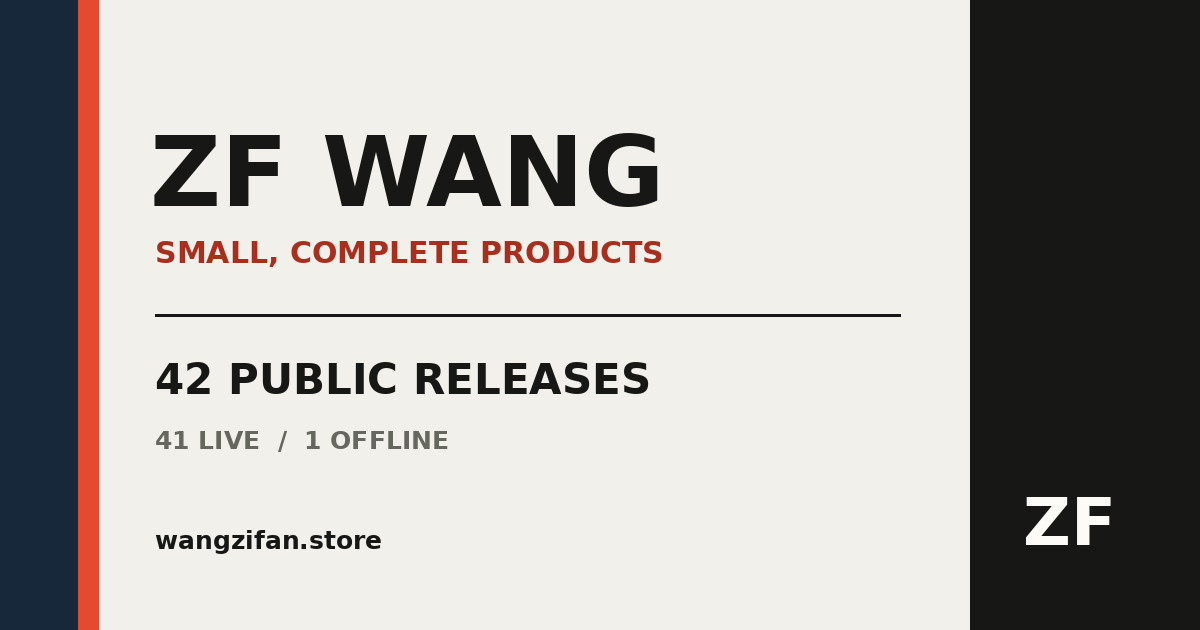
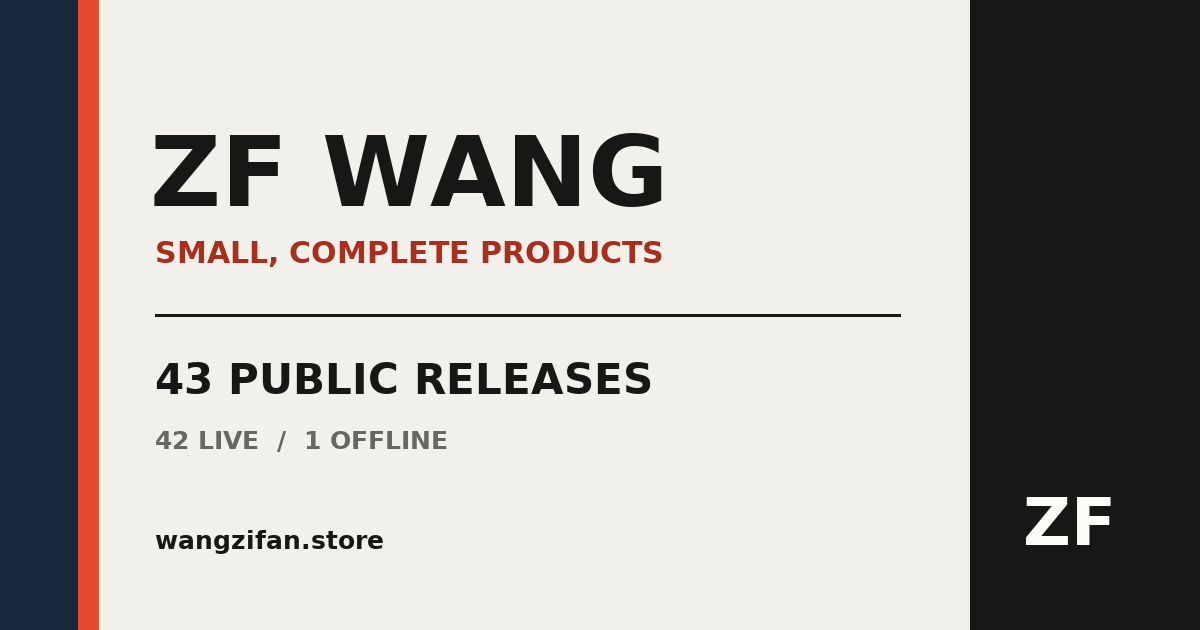
Add Command An Army Field Guide to the project wall (#27)

diff --git a/index.html b/index.html
@@ -25,7 +25,7 @@
   <link rel="icon" href="favicon.svg" type="image/svg+xml">
   <link rel="stylesheet" href="assets/site.css">
   <script defer data-domain="wangzifan.store" src="https://plausible.shipsolo.io/js/script.js"></script>
-  <script type="application/ld+json">{"@context":"https://schema.org","@graph":[{"@type":"Person","@id":"https://wangzifan.store/#person","name":"王子凡","alternateName":"ZF Wang","url":"https://wangzifan.store/","description":"OPC 一人公司创业者，以 AI、产品与持续发布探索独立创业。"},{"@type":"WebSite","@id":"https://wangzifan.store/#website","url":"https://wangzifan.store/","name":"王子凡（ZF Wang）— 个人产品工作台","inLanguage":"zh-CN","publisher":{"@id":"https://wangzifan.store/#person"}},{"@type":"ItemList","@id":"https://wangzifan.store/#release-ledger","name":"ZF Wang 公开产品发布档案","numberOfItems":42,"itemListOrder":"https://schema.org/ItemListOrderDescending","itemListElement":[{"@type":"ListItem","position":1,"item":{"@type":"CreativeWork","name":"1666 Amsterdam Field Desk","datePublished":"2026-09-12","genre":"游戏与内容","additionalProperty":{"@type":"PropertyValue","name":"public status","value":"live"},"url":"https://1666amsterdam.top/"}},{"@type":"ListItem","position":2,"item":{"@type":"CreativeWork","name":"ParryGrid","datePublished":"2026-09-12","genre":"游戏与内容","additionalProperty":{"@type":"PropertyValue","name":"public status","value":"live"},"url":"https://parrygrid.wiki/"}},{"@type":"ListItem","position":3,"item":{"@type":"CreativeWork","name":"Mimic Party Soundcheck","datePublished":"2026-09-12","genre":"游戏与内容","additionalProperty":{"@type":"PropertyValue","name":"public status","value":"live"},"url":"https://mimicparty.space/"}},{"@type":"ListItem","position":4,"item":{"@type":"CreativeWork","name":"Nightfall Halloween Guides","datePublished":"2026-09-12","genre":"游戏与内容","additionalProperty":{"@type":"PropertyValue","name":"public status","value":"live"},"url":"https://halloweenthegame.top/"}},{"@type":"ListItem","position":5,"item":{"@type":"CreativeWork","name":"Narinig Mo Ba? Guide","datePublished":"2026-09-11","genre":"游戏与内容","additionalProperty":{"@type":"PropertyValue","name":"public status","value":"live"},"url":"https://narinigmoba.top/"}},{"@type":"ListItem","position":6,"item":{"@type":"CreativeWork","name":"Astra Atlas","datePublished":"2026-09-09","genre":"AI 产品","additionalProperty":{"@type":"PropertyValue","name":"public status","value":"live"},"url":"https://gpt6astra.best/"}},{"@type":"ListItem","position":7,"item":{"@type":"CreativeWork","name":"Onimusha Atlas","datePublished":"2026-09-09","genre":"游戏与内容","additionalProperty":{"@type":"PropertyValue","name":"public status","value":"live"},"url":"https://onimushawayofthesword.space/"}},{"@type":"ListItem","position":8,"item":{"@type":"CreativeWork","name":"Dawnwalker Field Guide","datePublished":"2026-09-09","genre":"游戏与内容","additionalProperty":{"@type":"PropertyValue","name":"public status","value":"live"},"url":"https://thebloodofdawnwalker.info/"}},{"@type":"ListItem","position":9,"item":{"@type":"CreativeWork","name":"GenVid Atlas","datePublished":"2026-09-06","genre":"AI 产品","additionalProperty":{"@type":"PropertyValue","name":"public status","value":"live"},"url":"https://genvidatlas.wiki/"}},{"@type":"ListItem","position":10,"item":{"@type":"CreativeWork","name":"Mortal Shell II Wiki","datePublished":"2026-08-25","genre":"游戏与内容","additionalProperty":{"@type":"PropertyValue","name":"public status","value":"live"},"url":"https://mortalshell2.quest/"}},{"@type":"ListItem","position":11,"item":{"@type":"CreativeWork","name":"OxAlpha","datePublished":"2026-08-22","genre":"实用工具","additionalProperty":{"@type":"PropertyValue","name":"public status","value":"live"},"url":"https://oxalpha.site/"}},{"@type":"ListItem","position":12,"item":{"@type":"CreativeWork","name":"The Sinking City 2 Field Guide","datePublished":"2026-08-20","genre":"游戏与内容","additionalProperty":{"@type":"PropertyValue","name":"public status","value":"live"},"url":"https://thesinkingcity2.top/"}},{"@type":"ListItem","position":13,"item":{"@type":"CreativeWork","name":"Chinamaxxing Online","datePublished":"2026-08-20","genre":"创意实验","additionalProperty":{"@type":"PropertyValue","name":"public status","value":"live"},"url":"https://chinamaxxing.site/"}},{"@type":"ListItem","position":14,"item":{"@type":"CreativeWork","name":"HLLV Field Manual","datePublished":"2026-08-18","genre":"游戏与内容","additionalProperty":{"@type":"PropertyValue","name":"public status","value":"live"},"url":"https://hellletloosevietnam.blog/"}},{"@type":"ListItem","position":15,"item":{"@type":"CreativeWork","name":"牛来","datePublished":"2026-08-17","genre":"创意实验","additionalProperty":{"@type":"PropertyValue","name":"public status","value":"live"},"url":"https://niulai.blog/"}},{"@type":"ListItem","position":16,"item":{"@type":"CreativeWork","name":"CraveLoop","datePublished":"2026-08-16","genre":"创意实验","additionalProperty":{"@type":"PropertyValue","name":"public status","value":"live"},"url":"https://foodnevercomes.online/"}},{"@type":"ListItem","position":17,"item":{"@type":"CreativeWork","name":"MatchaFilter","datePublished":"2026-08-16","genre":"实用工具","additionalProperty":{"@type":"PropertyValue","name":"public status","value":"live"},"url":"https://matchafilter.cc/"}},{"@type":"ListItem","position":18,"item":{"@type":"CreativeWork","name":"burnt for you","datePublished":"2026-08-16","genre":"创意实验","additionalProperty":{"@type":"PropertyValue","name":"public status","value":"live"},"url":"https://burncd.xyz/"}},{"@type":"ListItem","position":19,"item":{"@type":"CreativeWork","name":"Polski Piłkarz Simulator","datePublished":"2026-08-16","genre":"游戏与内容","additionalProperty":{"@type":"PropertyValue","name":"public status","value":"offline"}}},{"@type":"ListItem","position":20,"item":{"@type":"CreativeWork","name":"DSH Field Guide","datePublished":"2026-08-15","genre":"实用工具","additionalProperty":{"@type":"PropertyValue","name":"public status","value":"live"},"url":"https://deepseekharness.site/"}},{"@type":"ListItem","position":21,"item":{"@type":"CreativeWork","name":"Remove Matcha Filter","datePublished":"2026-08-12","genre":"实用工具","additionalProperty":{"@type":"PropertyValue","name":"public status","value":"live"},"url":"https://remove-matcha-filter.com/"}},{"@type":"ListItem","position":22,"item":{"@type":"CreativeWork","name":"RSP Editor","datePublished":"2026-08-09","genre":"AI 产品","additionalProperty":{"@type":"PropertyValue","name":"public status","value":"live"},"url":"https://rspeditor.app/"}},{"@type":"ListItem","position":23,"item":{"@type":"CreativeWork","name":"AI Scanner","datePublished":"2026-08-09","genre":"AI 产品","additionalProperty":{"@type":"PropertyValue","name":"public status","value":"live"},"url":"https://aiscanner.run/"}},{"@type":"ListItem","position":24,"item":{"@type":"CreativeWork","name":"Merge a Nuke! Guide","datePublished":"2026-08-08","genre":"游戏与内容","additionalProperty":{"@type":"PropertyValue","name":"public status","value":"live"},"url":"https://mergeanuke.space/"}},{"@type":"ListItem","position":25,"item":{"@type":"CreativeWork","name":"Shift at Midnight Guide","datePublished":"2026-08-05","genre":"游戏与内容","additionalProperty":{"@type":"PropertyValue","name":"public status","value":"live"},"url":"https://shiftatmidnight.blog/"}},{"@type":"ListItem","position":26,"item":{"@type":"CreativeWork","name":"竹知了","datePublished":"2026-08-04","genre":"实用工具","additionalProperty":{"@type":"PropertyValue","name":"public status","value":"live"},"url":"https://zhuzhiliao.buzz/"}},{"@type":"ListItem","position":27,"item":{"@type":"CreativeWork","name":"Cash Flow Lifestyle","datePublished":"2026-08-03","genre":"创意实验","additionalProperty":{"@type":"PropertyValue","name":"public status","value":"live"},"url":"https://cashflow.lifestyle/"}},{"@type":"ListItem","position":28,"item":{"@type":"CreativeWork","name":"HowManySleepsUntil","datePublished":"2026-07-31","genre":"实用工具","additionalProperty":{"@type":"PropertyValue","name":"public status","value":"live"},"url":"https://howmanysleepsuntil.rest/"}},{"@type":"ListItem","position":29,"item":{"@type":"CreativeWork","name":"IsItDown","datePublished":"2026-07-31","genre":"实用工具","additionalProperty":{"@type":"PropertyValue","name":"public status","value":"live"},"url":"https://isitdown.click/"}},{"@type":"ListItem","position":30,"item":{"@type":"CreativeWork","name":"CopyPlaintext","datePublished":"2026-07-31","genre":"实用工具","additionalProperty":{"@type":"PropertyValue","name":"public status","value":"live"},"url":"https://copyplaintext.com/"}},{"@type":"ListItem","position":31,"item":{"@type":"CreativeWork","name":"DragonSword Wiki","datePublished":"2026-07-29","genre":"游戏与内容","additionalProperty":{"@type":"PropertyValue","name":"public status","value":"live"},"url":"https://dragonswordawakening.fun/"}},{"@type":"ListItem","position":32,"item":{"@type":"CreativeWork","name":"SpiritVale Wiki","datePublished":"2026-07-28","genre":"游戏与内容","additionalProperty":{"@type":"PropertyValue","name":"public status","value":"live"},"url":"https://spiritvale.blog/"}},{"@type":"ListItem","position":33,"item":{"@type":"CreativeWork","name":"Rot Check","datePublished":"2026-07-26","genre":"创意实验","additionalProperty":{"@type":"PropertyValue","name":"public status","value":"live"},"url":"https://rotcheck.cyou/"}},{"@type":"ListItem","position":34,"item":{"@type":"CreativeWork","name":"Chinese Coins Atlas","datePublished":"2026-07-26","genre":"创意实验","additionalProperty":{"@type":"PropertyValue","name":"public status","value":"live"},"url":"https://chinesecashcoins.wiki/"}},{"@type":"ListItem","position":35,"item":{"@type":"CreativeWork","name":"TaskbarHeroWiki","datePublished":"2026-07-26","genre":"游戏与内容","additionalProperty":{"@type":"PropertyValue","name":"public status","value":"live"},"url":"https://taskbarherowiki.best/"}},{"@type":"ListItem","position":36,"item":{"@type":"CreativeWork","name":"All Wishes Come True","datePublished":"2026-07-25","genre":"创意实验","additionalProperty":{"@type":"PropertyValue","name":"public status","value":"live"},"url":"https://allwishescometrue.site/"}},{"@type":"ListItem","position":37,"item":{"@type":"CreativeWork","name":"llmstxt","datePublished":"2026-07-18","genre":"实用工具","additionalProperty":{"@type":"PropertyValue","name":"public status","value":"live"},"url":"https://llmstxt.best/"}},{"@type":"ListItem","position":38,"item":{"@type":"CreativeWork","name":"CodexSkin.space","datePublished":"2026-07-17","genre":"实用工具","additionalProperty":{"@type":"PropertyValue","name":"public status","value":"live"},"url":"https://codexskin.space/"}},{"@type":"ListItem","position":39,"item":{"@type":"CreativeWork","name":"PalworldMap","datePublished":"2026-07-14","genre":"游戏与内容","additionalProperty":{"@type":"PropertyValue","name":"public status","value":"live"},"url":"https://palworldmap.best/"}},{"@type":"ListItem","position":40,"item":{"@type":"CreativeWork","name":"FalloutDay","datePublished":"2026-07-12","genre":"游戏与内容","additionalProperty":{"@type":"PropertyValue","name":"public status","value":"live"},"url":"https://falloutday.online/"}},{"@type":"ListItem","position":41,"item":{"@type":"CreativeWork","name":"Build a Hooper","datePublished":"2026-07-12","genre":"游戏与内容","additionalProperty":{"@type":"PropertyValue","name":"public status","value":"live"},"url":"https://buildahooper.best/"}},{"@type":"ListItem","position":42,"item":{"@type":"CreativeWork","name":"AIStoryNest","datePublished":"2026-07-12","genre":"AI 产品","additionalProperty":{"@type":"PropertyValue","name":"public status","value":"live"},"url":"https://aistorynest.mom/"}}]}]}</script>
+  <script type="application/ld+json">{"@context":"https://schema.org","@graph":[{"@type":"Person","@id":"https://wangzifan.store/#person","name":"王子凡","alternateName":"ZF Wang","url":"https://wangzifan.store/","description":"OPC 一人公司创业者，以 AI、产品与持续发布探索独立创业。"},{"@type":"WebSite","@id":"https://wangzifan.store/#website","url":"https://wangzifan.store/","name":"王子凡（ZF Wang）— 个人产品工作台","inLanguage":"zh-CN","publisher":{"@id":"https://wangzifan.store/#person"}},{"@type":"ItemList","@id":"https://wangzifan.store/#release-ledger","name":"ZF Wang 公开产品发布档案","numberOfItems":43,"itemListOrder":"https://schema.org/ItemListOrderDescending","itemListElement":[{"@type":"ListItem","position":1,"item":{"@type":"CreativeWork","name":"Command An Army Field Guide","datePublished":"2026-09-15","genre":"游戏与内容","additionalProperty":{"@type":"PropertyValue","name":"public status","value":"live"},"url":"https://commandanarmy.site/"}},{"@type":"ListItem","position":2,"item":{"@type":"CreativeWork","name":"1666 Amsterdam Field Desk","datePublished":"2026-09-12","genre":"游戏与内容","additionalProperty":{"@type":"PropertyValue","name":"public status","value":"live"},"url":"https://1666amsterdam.top/"}},{"@type":"ListItem","position":3,"item":{"@type":"CreativeWork","name":"ParryGrid","datePublished":"2026-09-12","genre":"游戏与内容","additionalProperty":{"@type":"PropertyValue","name":"public status","value":"live"},"url":"https://parrygrid.wiki/"}},{"@type":"ListItem","position":4,"item":{"@type":"CreativeWork","name":"Mimic Party Soundcheck","datePublished":"2026-09-12","genre":"游戏与内容","additionalProperty":{"@type":"PropertyValue","name":"public status","value":"live"},"url":"https://mimicparty.space/"}},{"@type":"ListItem","position":5,"item":{"@type":"CreativeWork","name":"Nightfall Halloween Guides","datePublished":"2026-09-12","genre":"游戏与内容","additionalProperty":{"@type":"PropertyValue","name":"public status","value":"live"},"url":"https://halloweenthegame.top/"}},{"@type":"ListItem","position":6,"item":{"@type":"CreativeWork","name":"Narinig Mo Ba? Guide","datePublished":"2026-09-11","genre":"游戏与内容","additionalProperty":{"@type":"PropertyValue","name":"public status","value":"live"},"url":"https://narinigmoba.top/"}},{"@type":"ListItem","position":7,"item":{"@type":"CreativeWork","name":"Astra Atlas","datePublished":"2026-09-09","genre":"AI 产品","additionalProperty":{"@type":"PropertyValue","name":"public status","value":"live"},"url":"https://gpt6astra.best/"}},{"@type":"ListItem","position":8,"item":{"@type":"CreativeWork","name":"Onimusha Atlas","datePublished":"2026-09-09","genre":"游戏与内容","additionalProperty":{"@type":"PropertyValue","name":"public status","value":"live"},"url":"https://onimushawayofthesword.space/"}},{"@type":"ListItem","position":9,"item":{"@type":"CreativeWork","name":"Dawnwalker Field Guide","datePublished":"2026-09-09","genre":"游戏与内容","additionalProperty":{"@type":"PropertyValue","name":"public status","value":"live"},"url":"https://thebloodofdawnwalker.info/"}},{"@type":"ListItem","position":10,"item":{"@type":"CreativeWork","name":"GenVid Atlas","datePublished":"2026-09-06","genre":"AI 产品","additionalProperty":{"@type":"PropertyValue","name":"public status","value":"live"},"url":"https://genvidatlas.wiki/"}},{"@type":"ListItem","position":11,"item":{"@type":"CreativeWork","name":"Mortal Shell II Wiki","datePublished":"2026-08-25","genre":"游戏与内容","additionalProperty":{"@type":"PropertyValue","name":"public status","value":"live"},"url":"https://mortalshell2.quest/"}},{"@type":"ListItem","position":12,"item":{"@type":"CreativeWork","name":"OxAlpha","datePublished":"2026-08-22","genre":"实用工具","additionalProperty":{"@type":"PropertyValue","name":"public status","value":"live"},"url":"https://oxalpha.site/"}},{"@type":"ListItem","position":13,"item":{"@type":"CreativeWork","name":"The Sinking City 2 Field Guide","datePublished":"2026-08-20","genre":"游戏与内容","additionalProperty":{"@type":"PropertyValue","name":"public status","value":"live"},"url":"https://thesinkingcity2.top/"}},{"@type":"ListItem","position":14,"item":{"@type":"CreativeWork","name":"Chinamaxxing Online","datePublished":"2026-08-20","genre":"创意实验","additionalProperty":{"@type":"PropertyValue","name":"public status","value":"live"},"url":"https://chinamaxxing.site/"}},{"@type":"ListItem","position":15,"item":{"@type":"CreativeWork","name":"HLLV Field Manual","datePublished":"2026-08-18","genre":"游戏与内容","additionalProperty":{"@type":"PropertyValue","name":"public status","value":"live"},"url":"https://hellletloosevietnam.blog/"}},{"@type":"ListItem","position":16,"item":{"@type":"CreativeWork","name":"牛来","datePublished":"2026-08-17","genre":"创意实验","additionalProperty":{"@type":"PropertyValue","name":"public status","value":"live"},"url":"https://niulai.blog/"}},{"@type":"ListItem","position":17,"item":{"@type":"CreativeWork","name":"CraveLoop","datePublished":"2026-08-16","genre":"创意实验","additionalProperty":{"@type":"PropertyValue","name":"public status","value":"live"},"url":"https://foodnevercomes.online/"}},{"@type":"ListItem","position":18,"item":{"@type":"CreativeWork","name":"MatchaFilter","datePublished":"2026-08-16","genre":"实用工具","additionalProperty":{"@type":"PropertyValue","name":"public status","value":"live"},"url":"https://matchafilter.cc/"}},{"@type":"ListItem","position":19,"item":{"@type":"CreativeWork","name":"burnt for you","datePublished":"2026-08-16","genre":"创意实验","additionalProperty":{"@type":"PropertyValue","name":"public status","value":"live"},"url":"https://burncd.xyz/"}},{"@type":"ListItem","position":20,"item":{"@type":"CreativeWork","name":"Polski Piłkarz Simulator","datePublished":"2026-08-16","genre":"游戏与内容","additionalProperty":{"@type":"PropertyValue","name":"public status","value":"offline"}}},{"@type":"ListItem","position":21,"item":{"@type":"CreativeWork","name":"DSH Field Guide","datePublished":"2026-08-15","genre":"实用工具","additionalProperty":{"@type":"PropertyValue","name":"public status","value":"live"},"url":"https://deepseekharness.site/"}},{"@type":"ListItem","position":22,"item":{"@type":"CreativeWork","name":"Remove Matcha Filter","datePublished":"2026-08-12","genre":"实用工具","additionalProperty":{"@type":"PropertyValue","name":"public status","value":"live"},"url":"https://remove-matcha-filter.com/"}},{"@type":"ListItem","position":23,"item":{"@type":"CreativeWork","name":"RSP Editor","datePublished":"2026-08-09","genre":"AI 产品","additionalProperty":{"@type":"PropertyValue","name":"public status","value":"live"},"url":"https://rspeditor.app/"}},{"@type":"ListItem","position":24,"item":{"@type":"CreativeWork","name":"AI Scanner","datePublished":"2026-08-09","genre":"AI 产品","additionalProperty":{"@type":"PropertyValue","name":"public status","value":"live"},"url":"https://aiscanner.run/"}},{"@type":"ListItem","position":25,"item":{"@type":"CreativeWork","name":"Merge a Nuke! Guide","datePublished":"2026-08-08","genre":"游戏与内容","additionalProperty":{"@type":"PropertyValue","name":"public status","value":"live"},"url":"https://mergeanuke.space/"}},{"@type":"ListItem","position":26,"item":{"@type":"CreativeWork","name":"Shift at Midnight Guide","datePublished":"2026-08-05","genre":"游戏与内容","additionalProperty":{"@type":"PropertyValue","name":"public status","value":"live"},"url":"https://shiftatmidnight.blog/"}},{"@type":"ListItem","position":27,"item":{"@type":"CreativeWork","name":"竹知了","datePublished":"2026-08-04","genre":"实用工具","additionalProperty":{"@type":"PropertyValue","name":"public status","value":"live"},"url":"https://zhuzhiliao.buzz/"}},{"@type":"ListItem","position":28,"item":{"@type":"CreativeWork","name":"Cash Flow Lifestyle","datePublished":"2026-08-03","genre":"创意实验","additionalProperty":{"@type":"PropertyValue","name":"public status","value":"live"},"url":"https://cashflow.lifestyle/"}},{"@type":"ListItem","position":29,"item":{"@type":"CreativeWork","name":"HowManySleepsUntil","datePublished":"2026-07-31","genre":"实用工具","additionalProperty":{"@type":"PropertyValue","name":"public status","value":"live"},"url":"https://howmanysleepsuntil.rest/"}},{"@type":"ListItem","position":30,"item":{"@type":"CreativeWork","name":"IsItDown","datePublished":"2026-07-31","genre":"实用工具","additionalProperty":{"@type":"PropertyValue","name":"public status","value":"live"},"url":"https://isitdown.click/"}},{"@type":"ListItem","position":31,"item":{"@type":"CreativeWork","name":"CopyPlaintext","datePublished":"2026-07-31","genre":"实用工具","additionalProperty":{"@type":"PropertyValue","name":"public status","value":"live"},"url":"https://copyplaintext.com/"}},{"@type":"ListItem","position":32,"item":{"@type":"CreativeWork","name":"DragonSword Wiki","datePublished":"2026-07-29","genre":"游戏与内容","additionalProperty":{"@type":"PropertyValue","name":"public status","value":"live"},"url":"https://dragonswordawakening.fun/"}},{"@type":"ListItem","position":33,"item":{"@type":"CreativeWork","name":"SpiritVale Wiki","datePublished":"2026-07-28","genre":"游戏与内容","additionalProperty":{"@type":"PropertyValue","name":"public status","value":"live"},"url":"https://spiritvale.blog/"}},{"@type":"ListItem","position":34,"item":{"@type":"CreativeWork","name":"Rot Check","datePublished":"2026-07-26","genre":"创意实验","additionalProperty":{"@type":"PropertyValue","name":"public status","value":"live"},"url":"https://rotcheck.cyou/"}},{"@type":"ListItem","position":35,"item":{"@type":"CreativeWork","name":"Chinese Coins Atlas","datePublished":"2026-07-26","genre":"创意实验","additionalProperty":{"@type":"PropertyValue","name":"public status","value":"live"},"url":"https://chinesecashcoins.wiki/"}},{"@type":"ListItem","position":36,"item":{"@type":"CreativeWork","name":"TaskbarHeroWiki","datePublished":"2026-07-26","genre":"游戏与内容","additionalProperty":{"@type":"PropertyValue","name":"public status","value":"live"},"url":"https://taskbarherowiki.best/"}},{"@type":"ListItem","position":37,"item":{"@type":"CreativeWork","name":"All Wishes Come True","datePublished":"2026-07-25","genre":"创意实验","additionalProperty":{"@type":"PropertyValue","name":"public status","value":"live"},"url":"https://allwishescometrue.site/"}},{"@type":"ListItem","position":38,"item":{"@type":"CreativeWork","name":"llmstxt","datePublished":"2026-07-18","genre":"实用工具","additionalProperty":{"@type":"PropertyValue","name":"public status","value":"live"},"url":"https://llmstxt.best/"}},{"@type":"ListItem","position":39,"item":{"@type":"CreativeWork","name":"CodexSkin.space","datePublished":"2026-07-17","genre":"实用工具","additionalProperty":{"@type":"PropertyValue","name":"public status","value":"live"},"url":"https://codexskin.space/"}},{"@type":"ListItem","position":40,"item":{"@type":"CreativeWork","name":"PalworldMap","datePublished":"2026-07-14","genre":"游戏与内容","additionalProperty":{"@type":"PropertyValue","name":"public status","value":"live"},"url":"https://palworldmap.best/"}},{"@type":"ListItem","position":41,"item":{"@type":"CreativeWork","name":"FalloutDay","datePublished":"2026-07-12","genre":"游戏与内容","additionalProperty":{"@type":"PropertyValue","name":"public status","value":"live"},"url":"https://falloutday.online/"}},{"@type":"ListItem","position":42,"item":{"@type":"CreativeWork","name":"Build a Hooper","datePublished":"2026-07-12","genre":"游戏与内容","additionalProperty":{"@type":"PropertyValue","name":"public status","value":"live"},"url":"https://buildahooper.best/"}},{"@type":"ListItem","position":43,"item":{"@type":"CreativeWork","name":"AIStoryNest","datePublished":"2026-07-12","genre":"AI 产品","additionalProperty":{"@type":"PropertyValue","name":"public status","value":"live"},"url":"https://aistorynest.mom/"}}]}]}</script>
   <script defer src="assets/site.js"></script>
 </head>
 <body>
@@ -62,24 +62,32 @@
     </section>
 
     <section class="studio-status" aria-label="公开发布状态">
-      <span data-status="releases">42 条公开记录</span>
-      <span data-status="live">41 条在线记录</span>
+      <span data-status="releases">43 条公开记录</span>
+      <span data-status="live">42 条在线记录</span>
       <span data-status="offline">1 条离线记录</span>
-      <span>最近上线 2026-09-12</span>
+      <span>最近上线 2026-09-15</span>
     </section>
 
     <section class="section ledger" id="ledger" aria-labelledby="ledger-title">
       <div class="section-heading">
         <p class="section-no">01 / 项目展墙</p>
-        <div><h2 id="ledger-title">想法不止留在脑海里。</h2><p>42 次把想法变成网址。每一个都是一人公司的一次出发：有持续打磨的，也有尝试后停下的。</p></div>
+        <div><h2 id="ledger-title">想法不止留在脑海里。</h2><p>43 次把想法变成网址。每一个都是一人公司的一次出发：有持续打磨的，也有尝试后停下的。</p></div>
       </div>
       <div class="ledger-tools" hidden aria-label="筛选发布档案">
         <div class="ledger-filters" role="group" aria-label="按产品类型筛选"><button type="button" class="ledger-filter is-active" data-ledger-filter="all" aria-pressed="true">全部</button><button type="button" class="ledger-filter" data-ledger-filter="ai" aria-pressed="false">AI 产品</button><button type="button" class="ledger-filter" data-ledger-filter="game" aria-pressed="false">游戏与内容</button><button type="button" class="ledger-filter" data-ledger-filter="tool" aria-pressed="false">实用工具</button><button type="button" class="ledger-filter" data-ledger-filter="creative" aria-pressed="false">创意实验</button></div>
         <label class="search-field" for="ledger-search"><span>搜索</span><input id="ledger-search" type="search" placeholder="名称、用途或域名" autocomplete="off"></label>
         <label class="status-field" for="ledger-status"><span>状态</span><select id="ledger-status"><option value="all">全部状态</option><option value="live">在线记录</option><option value="offline">离线记录</option></select></label>
       </div>
-      <div class="ledger-summary"><div><strong id="ledger-count" aria-live="polite">42 / 42</strong><span>个项目</span></div><div class="view-switch" role="group" aria-label="作品展示方式" hidden><button type="button" data-view="wall" aria-pressed="true">展墙</button><button type="button" data-view="list" aria-pressed="false">清单</button></div></div>
-      <div class="ledger-list" id="ledger-list"><article class="ledger-row" data-ledger-id="42" data-ledger-category="game" data-ledger-status="live" data-ledger-search="1666 amsterdam field desk 《1666: amsterdam》三语攻略与排障工作台 1666amsterdam.top"><a class="ledger-main" href="https://1666amsterdam.top/" target="_blank" rel="noopener noreferrer"><span class="project-window">
+      <div class="ledger-summary"><div><strong id="ledger-count" aria-live="polite">43 / 43</strong><span>个项目</span></div><div class="view-switch" role="group" aria-label="作品展示方式" hidden><button type="button" data-view="wall" aria-pressed="true">展墙</button><button type="button" data-view="list" aria-pressed="false">清单</button></div></div>
+      <div class="ledger-list" id="ledger-list"><article class="ledger-row" data-ledger-id="43" data-ledger-category="game" data-ledger-status="live" data-ledger-search="command an army field guide 《command an army》三语攻略与配队工具 commandanarmy.site"><a class="ledger-main" href="https://commandanarmy.site/" target="_blank" rel="noopener noreferrer"><span class="project-window">
+              <span class="window-bar"><span class="window-dots" aria-hidden="true">● ● ●</span><span class="ledger-domain">commandanarmy.site</span><span aria-hidden="true">↗</span></span>
+              <img src="assets/projects/project-43.webp" width="400" height="250" alt="Command An Army Field Guide 项目截图" loading="lazy" decoding="async">
+            </span>
+            <span class="project-info">
+              <span class="project-kicker"><span class="project-number">/43</span><span class="ledger-category">游戏与内容</span></span>
+              <span class="ledger-name"><strong>Command An Army Field Guide</strong><small>《Command An Army》三语攻略与配队工具</small></span>
+              <span class="project-footer"><span class="ledger-date">2026-09-15</span><span class="ledger-state is-live"><i aria-hidden="true"></i>在线记录</span></span>
+            </span></a></article><article class="ledger-row" data-ledger-id="42" data-ledger-category="game" data-ledger-status="live" data-ledger-search="1666 amsterdam field desk 《1666: amsterdam》三语攻略与排障工作台 1666amsterdam.top"><a class="ledger-main" href="https://1666amsterdam.top/" target="_blank" rel="noopener noreferrer"><span class="project-window">
               <span class="window-bar"><span class="window-dots" aria-hidden="true">● ● ●</span><span class="ledger-domain">1666amsterdam.top</span><span aria-hidden="true">↗</span></span>
               <img src="assets/projects/project-42.webp" width="400" height="250" alt="1666 Amsterdam Field Desk 项目截图" loading="lazy" decoding="async">
             </span>
@@ -417,7 +425,7 @@
               <span class="project-footer"><span class="ledger-date">2026-07-12</span><span class="ledger-state is-live"><i aria-hidden="true"></i>在线记录</span></span>
             </span></a></article></div>
       <p class="ledger-empty" id="ledger-empty" role="status" hidden>没有匹配记录，试试别的关键词或筛选。</p>
-      <button class="button ledger-more" type="button" id="ledger-more" hidden aria-expanded="false" aria-controls="ledger-list">查看全部 42 条记录</button>
+      <button class="button ledger-more" type="button" id="ledger-more" hidden aria-expanded="false" aria-controls="ledger-list">查看全部 43 条记录</button>
     </section>
 
     <section class="section method" id="method" aria-labelledby="method-title">
@@ -431,7 +439,7 @@
     <section class="section about" id="about" aria-labelledby="about-title">
       <div class="section-heading">
         <p class="section-no">03 / 一人公司</p>
-        <div><h2 id="about-title">把选择权，<br>一点点做回自己手里。</h2><p>我是王子凡，正在实践 OPC 一人公司创业。这个页面记录着 42 次公开上线，也记录着我从想法走向真实市场的过程。</p><div class="founder-signature"><strong>ZF WANG<span aria-hidden="true">↗</span></strong><span>独立创业 / 持续构建</span></div></div>
+        <div><h2 id="about-title">把选择权，<br>一点点做回自己手里。</h2><p>我是王子凡，正在实践 OPC 一人公司创业。这个页面记录着 43 次公开上线，也记录着我从想法走向真实市场的过程。</p><div class="founder-signature"><strong>ZF WANG<span aria-hidden="true">↗</span></strong><span>独立创业 / 持续构建</span></div></div>
       </div>
       <div class="about-grid">
         <blockquote>我想做的，是一家由自己掌舵、靠产品创造价值的小公司。保持好奇，认真解决问题，也为自己的选择负责。</blockquote>

diff --git a/scripts/accept_v11.py b/scripts/accept_v11.py
@@ -176,7 +176,7 @@ def interactions(page, context, origin: str, width: int, height: int) -> dict:
         "count": page.locator("#ledger-count").inner_text(),
     }
     page.locator('[data-ledger-filter="all"]').click()
-    page.locator("#ledger-search").fill("1666amsterdam")
+    page.locator("#ledger-search").fill("commandanarmy")
     result["search"] = {
         "visible": page.locator("[data-ledger-id]:visible").count(),
         "ids": page.locator("[data-ledger-id]:visible").evaluate_all(
@@ -206,7 +206,7 @@ def interactions(page, context, origin: str, width: int, height: int) -> dict:
     }
 
     expanded_images = decode_images(page)
-    result["expandedImages"] = len(expanded_images) == 43 and all(
+    result["expandedImages"] = len(expanded_images) == 44 and all(
         image["complete"] and image["natural"][0] > 0 and not image["decodeError"]
         for image in expanded_images
     )
@@ -272,7 +272,7 @@ def interactions(page, context, origin: str, width: int, height: int) -> dict:
         "intersects": target["bottom"] > 0 and target["top"] < height,
     }
 
-    latest_link = page.locator('[data-ledger-id="42"] a.ledger-main')
+    latest_link = page.locator('[data-ledger-id="43"] a.ledger-main')
     result["latestCTA"] = {
         "href": latest_link.get_attribute("href"),
         "target": latest_link.get_attribute("target"),
@@ -281,11 +281,11 @@ def interactions(page, context, origin: str, width: int, height: int) -> dict:
     }
     if width == 390:
         context.route(
-            "https://1666amsterdam.top/**",
+            "https://commandanarmy.site/**",
             lambda route: route.fulfill(
                 status=200,
                 content_type="text/html",
-                body="<!doctype html><title>1666 Amsterdam Field Desk</title>",
+                body="<!doctype html><title>Command An Army Field Guide</title>",
             ),
         )
         with context.expect_page() as popup_info:
@@ -321,20 +321,20 @@ def assert_view(name, width, height, geom, images, task) -> list[str]:
         expected = {
             "defaultVisible": task["defaultVisible"] == 9,
             "expandedImages": task["expandedImages"],
-            "listView": task["listView"]["enabled"] and task["listView"]["visible"] == 42
+            "listView": task["listView"]["enabled"] and task["listView"]["visible"] == 43
             and not task["listView"]["geometry"]["overflow"] and not task["listView"]["geometry"]["ownerCrossings"],
             "wallView": task["wallView"],
-            "ai": task["ai"] == {"visible": 5, "count": "5 / 42"},
-            "game": task["game"] == {"visible": 19, "count": "19 / 42"},
-            "search": task["search"] == {"visible": 1, "ids": ["42"]},
+            "ai": task["ai"] == {"visible": 5, "count": "5 / 43"},
+            "game": task["game"] == {"visible": 20, "count": "20 / 43"},
+            "search": task["search"] == {"visible": 1, "ids": ["43"]},
             "empty": task["empty"] == {
                 "visible": 0,
-                "count": "0 / 42",
+                "count": "0 / 43",
                 "messageVisible": True,
                 "message": "没有匹配记录，试试别的关键词或筛选。",
             },
             "offline": task["offline"] == {"visible": 1, "ids": ["24"]},
-            "expanded": task["expanded"] == {"visible": 42, "aria": "true"},
+            "expanded": task["expanded"] == {"visible": 43, "aria": "true"},
             "copySuccess": task["copySuccess"]["button"] == "已复制 ✓"
             and "已复制" in task["copySuccess"]["status"],
             "copyFailure": task["copyFailure"]["button"] == "复制微信号"
@@ -347,10 +347,10 @@ def assert_view(name, width, height, geom, images, task) -> list[str]:
             "fragment": task["fragment"]["hash"] == "#ledger"
             and task["fragment"]["intersects"],
             "latestCTA": task["latestCTA"] == {
-                "href": "https://1666amsterdam.top/",
+                "href": "https://commandanarmy.site/",
                 "target": "_blank",
                 "rel": ["noopener", "noreferrer"],
-                "tapOpened": "https://1666amsterdam.top/" if width == 390 else None,
+                "tapOpened": "https://commandanarmy.site/" if width == 390 else None,
             },
         }
         failures.extend(
@@ -577,8 +577,8 @@ def run_matrix(origin: str, output: Path, site_root: Path) -> dict:
         "status": 200,
         "hero": 1,
         "featured": 0,
-        "ledger": 42,
-        "visibleLedger": 42,
+        "ledger": 43,
+        "visibleLedger": 43,
         "visibleLedgerTools": 0,
         "visibleLedgerMore": 0,
         "visibleCopyButton": 0,

diff --git a/tests/test_v11_build.py b/tests/test_v11_build.py
@@ -148,10 +148,10 @@ def test_v11_registry_has_complete_truthful_project_contract():
         "featured",
         "featured_order",
     }
-    assert len(projects) == 42
-    assert [project["id"] for project in projects] == list(range(1, 43))
-    assert len({project["url"] for project in projects}) == 42
-    assert sum(project["status"] == "live" for project in projects) == 41
+    assert len(projects) == 43
+    assert [project["id"] for project in projects] == list(range(1, 44))
+    assert len({project["url"] for project in projects}) == 43
+    assert sum(project["status"] == "live" for project in projects) == 42
     assert sum(project["status"] == "offline" for project in projects) == 1
     assert sum(project["featured"] for project in projects) == 3
     assert sorted(
@@ -215,8 +215,8 @@ def test_build_v11_generates_truthful_identity_and_counts(tmp_path):
     assert 'href="https://1666amsterdam.top/"' in html
     assert "2026-09-12" in html
     assert '<main id="main-content" tabindex="-1">' in html
-    assert 'data-status="releases">42 条公开记录' in html
-    assert 'data-status="live">41 条在线记录' in html
+    assert 'data-status="releases">43 条公开记录' in html
+    assert 'data-status="live">42 条在线记录' in html
     assert 'data-status="offline">1 条离线记录' in html
     for retired in (
         "WZF PRESS",
@@ -237,8 +237,8 @@ def test_build_renders_one_complete_visual_product_wall(tmp_path):
     html = output.read_text(encoding="utf-8")
     assert 'data-latest-card' not in html
     assert 'data-featured-card' not in html
-    assert html.count('class="project-window"') == 42
-    assert html.count('class="project-number"') == 42
+    assert html.count('class="project-window"') == 43
+    assert html.count('class="project-number"') == 43
     for project in load_projects():
         row = re.search(rf'<article[^>]+data-ledger-id="{project["id"]}".*?</article>', html, re.S).group()
         assert project["name"] in row
@@ -267,10 +267,10 @@ def test_build_v11_closes_collaboration_method_ledger_and_contact_flow(tmp_path)
     assert "公司的行动力" in html
     for habit in ("从需求出发，不等万事俱备", "让 AI 放大一个人的行动力", "先上线，再用反馈走下一步"):
         assert habit in html
-    assert html.count('data-ledger-id="') == 42
-    ledger_positions = [html.index(f'data-ledger-id="{project_id}"') for project_id in range(42, 0, -1)]
+    assert html.count('data-ledger-id="') == 43
+    ledger_positions = [html.index(f'data-ledger-id="{project_id}"') for project_id in range(43, 0, -1)]
     assert ledger_positions == sorted(ledger_positions)
-    assert html.count('data-ledger-status="live"') == 41
+    assert html.count('data-ledger-status="live"') == 42
     assert html.count('data-ledger-status="offline"') == 1
 
     offline_row = re.search(
@@ -284,8 +284,8 @@ def test_build_v11_closes_collaboration_method_ledger_and_contact_flow(tmp_path)
         assert f'data-ledger-filter="{category}"' in html
     assert 'id="ledger-search"' in html
     assert 'id="ledger-status"' in html
-    assert 'id="ledger-count" aria-live="polite">42 / 42' in html
-    assert "这个页面记录着 42 次公开上线" in html
+    assert 'id="ledger-count" aria-live="polite">43 / 43' in html
+    assert "这个页面记录着 43 次公开上线" in html
     assert 'class="ledger-tools" hidden' in html
     assert 'class="ledger-empty" id="ledger-empty" role="status" hidden' in html
     assert "没有匹配记录，试试别的关键词或筛选。" in html
@@ -371,13 +371,13 @@ def test_build_v11_generates_shared_assets_seo_and_privacy_page(tmp_path):
     graph = json.loads(graph_match.group(1))["@graph"]
     assert {node["@type"] for node in graph} == {"Person", "WebSite", "ItemList"}
     release_list = next(node for node in graph if node["@type"] == "ItemList")
-    assert release_list["numberOfItems"] == 42
-    assert len(release_list["itemListElement"]) == 42
+    assert release_list["numberOfItems"] == 43
+    assert len(release_list["itemListElement"]) == 43
     structured_statuses = [
         item["item"]["additionalProperty"]["value"]
         for item in release_list["itemListElement"]
     ]
-    assert structured_statuses.count("live") == 41
+    assert structured_statuses.count("live") == 42
     assert structured_statuses.count("offline") == 1
 
     assert '<link rel="canonical" href="https://wangzifan.store/privacy.html">' in privacy_html

diff --git a/tests/test_projects.py b/tests/test_projects.py
@@ -92,7 +92,7 @@ def test_tracked_public_candidate_matches_deterministic_builder(tmp_path):
 def test_registry_assets_are_complete_lightweight_and_fixed_size():
     projects = json.loads(REGISTRY.read_text(encoding="utf-8"))
     sources = [project["image"] for project in projects]
-    assert len(sources) == len(set(sources)) == 42
+    assert len(sources) == len(set(sources)) == 43
     for source in sources:
         image_path = ROOT / source
         assert image_path.is_file(), source
@@ -243,12 +243,12 @@ def test_builder_escapes_adversarial_registry_values_and_json_ld():
 
 def test_homepage_truth_and_link_security_match_registry():
     html = SITE.read_text(encoding="utf-8")
-    assert html.count('data-ledger-id="') == 42
-    assert html.count('data-ledger-status="live"') == 41
+    assert html.count('data-ledger-id="') == 43
+    assert html.count('data-ledger-status="live"') == 42
     assert html.count('data-ledger-status="offline"') == 1
     assert 'data-ledger-id="24"' in html and "Polski Piłkarz Simulator" in html
     # Each online product appears once; the offline project has no outbound link.
-    expected_safe_external_links = 41
+    expected_safe_external_links = 42
     parser = AuditParser()
     parser.feed(html)
     assert len(parser.blank_links) == expected_safe_external_links
@@ -338,7 +338,7 @@ def test_workflow_builds_and_tests_before_exact_allowlist_upload():
         assert public_path in manifest
     assert 'glob("*.webp")' not in manifest
     assert 'f"assets/projects/project-{project_id:02d}.webp"' in manifest
-    assert "for project_id in range(1, 43)" in manifest
+    assert "for project_id in range(1, 44)" in manifest
     assert "PUBLIC_PATHS = STATIC_PUBLIC_PATHS + PROJECT_PUBLIC_PATHS" in manifest
     assert "if output.exists()" in manifest
     assert "if actual != expected_relative" in manifest
@@ -349,3 +349,16 @@ def test_build_sources_and_registry_are_not_referenced_as_public_assets():
     static_block = manifest.split("STATIC_PUBLIC_PATHS = (", 1)[1].split(")", 1)[0]
     for private_source in ("data/projects.json", "src/", "scripts/", "tests/", ".hermes/"):
         assert private_source not in static_block
+
+
+def test_command_an_army_project_43_contract():
+    projects = json.loads(REGISTRY.read_text(encoding="utf-8"))
+    army = next(project for project in projects if project["id"] == 43)
+    assert army["name"] == "Command An Army Field Guide"
+    assert army["url"] == "https://commandanarmy.site/"
+    assert army["category"] == "game"
+    assert army["status"] == "live"
+    assert army["launched_at"] == "2026-09-15"
+    assert army["image"] == "assets/projects/project-43.webp"
+    html = SITE.read_text(encoding="utf-8")
+    assert html.index('data-ledger-id="43"') < html.index('data-ledger-id="42"')

diff --git a/tests/test_release_gate.py b/tests/test_release_gate.py
@@ -38,16 +38,16 @@ def test_public_artifact_is_exact_allowlist(tmp_path):
     )
     files = sorted(path.relative_to(output).as_posix() for path in output.rglob("*") if path.is_file())
     expected = set(STATIC_PUBLIC_PATHS + PROJECT_PUBLIC_PATHS)
-    assert len(files) == 50
+    assert len(files) == 51
     assert set(files) == expected
     assert not any(
         part in {"src", "data", "tests", "scripts", ".hermes", ".git", ".github"}
         for path in files
         for part in Path(path).parts
     )
-    assert "public artifact: 50 files" in completed.stdout
+    assert "public artifact: 51 files" in completed.stdout
     assert "candidate sha256=" in completed.stdout
-    assert len(assert_artifact_closure(output)) == 50
+    assert len(assert_artifact_closure(output)) == 51
 
     injected = output / "debug.txt"
     injected.write_text("must fail closed", encoding="utf-8")

diff --git a/scripts/prepare_public_artifact.py b/scripts/prepare_public_artifact.py
@@ -19,7 +19,7 @@ STATIC_PUBLIC_PATHS = (
     "assets/wechat-qr.webp",
 )
 PROJECT_PUBLIC_PATHS = tuple(
-    f"assets/projects/project-{project_id:02d}.webp" for project_id in range(1, 43)
+    f"assets/projects/project-{project_id:02d}.webp" for project_id in range(1, 44)
 )
 PUBLIC_PATHS = STATIC_PUBLIC_PATHS + PROJECT_PUBLIC_PATHS
 

diff --git a/scripts/build_v11.py b/scripts/build_v11.py
@@ -233,6 +233,7 @@ def load_social_font(size: int):
     return ImageFont.truetype(
         ROOT / "src" / "fonts" / "DejaVuSans-Bold.ttf",
         size=size,
+        layout_engine=ImageFont.Layout.BASIC,
     )
 
 

diff --git a/project-control.md b/project-control.md
@@ -1,5 +1,15 @@
 # Project Control Board
 
+## #43 Command An Army（2026-09-15）
+
+- 收录 Command An Army Field Guide，游戏与内容分类；上线日期采用本轮浏览器首次可核验日期。
+- 正式域在浏览器中跳转 `/en/` 且显示真实首页；命令行访问曾返回 Cloudflare 1034，因此在线判断采用实际浏览器访问证据。
+- 缩略图来自正式站 1280×720 截图，等比缩为 400×225 后上下补背景至 400×250，无裁切或变形。
+- 作品共 43 条（42 在线、1 离线），游戏分类 20 条；白名单 51 文件。
+- 更新公开分享卡计数，并显式采用 BASIC 字体布局，消除 macOS/Linux 默认字体布局引擎差异。
+- 仅更新个人网站作品索引，不修改目标站部署或域名。
+
+
 - 项目：`zf-wang-personal-site`
 - 类型：OPC 创业者个人主页 / 全球产品发布索引
 - 站长：王子凡（ZF Wang）
@@ -344,7 +354,7 @@
    - 交流方向：OPC 创业、AI 产品、出海增长、网站工具与联合实验。
    - 公开联系渠道：微信号 `wang1227928718`。
 
-## 产品索引（42）
+## 产品索引（43）
 
 | # | 产品 | 分类 | 地址 |
 |---:|---|---|---|
@@ -390,6 +400,7 @@
 | 40 | Mimic Party Soundcheck | 游戏与内容 | https://mimicparty.space/ |
 | 41 | ParryGrid | 游戏与内容 | https://parrygrid.wiki/ |
 | 42 | 1666 Amsterdam Field Desk | 游戏与内容 | https://1666amsterdam.top/ |
+| 43 | Command An Army Field Guide | 游戏与内容 | https://commandanarmy.site/ |
 
 ## 发布产物边界
 
@@ -403,10 +414,10 @@
 
 - 真实 CSS 视口 `1440×900`、`1024×768`、`768×1024`、`390×844`、`320×568` 与断点边界 `759/760/761×800` 均无页面级横向溢出、owner crossing、控制台错误、页面异常、同源失败请求或坏响应。
 - 320px 首屏主 CTA 完整可见；验收覆盖的按钮与表单控件高度不低于 44px，复制失败后出现的手动输入框也在 1440/390/320 三档实测为 44px；首页与隐私页 skip link 均将焦点送到对应 main。
-- 默认档案展示 9 条；类别、关键词、在线/离线组合筛选与 42 条展开状态均纳入验收；离线筛选唯一命中 Polski Piłkarz Simulator，1666 Amsterdam Field Desk 搜索唯一命中 #42。
-- 搜索零结果会明确显示空状态；微信复制覆盖 Clipboard API 成功与 `execCommand` 失败后的明文选择降级；无 JavaScript 时筛选/展开/复制按钮不出现，3 个重点案例与 42 条档案全部可读。
-- 正常动画与 `prefers-reduced-motion` 均无持续帧变化；7 张当前页面图片全部完成解码。
-- 验收脚本会独立拒绝 artifact 后插文件或 symlink；项目图片 allowlist 固定为 `project-01.webp` 至 `project-42.webp`，不接受任意 42 个 WebP；所有 `target="_blank"` 逐链接验证 `noopener noreferrer`，并用恶意 registry payload 回归 HTML/JSON-LD escaping。
+- 默认档案展示 9 条；类别、关键词、在线/离线组合筛选与 43 条展开状态均纳入验收；离线筛选唯一命中 Polski Piłkarz Simulator，Command An Army Field Guide 搜索唯一命中 #43。
+- 搜索零结果会明确显示空状态；微信复制覆盖 Clipboard API 成功与 `execCommand` 失败后的明文选择降级；无 JavaScript 时筛选/展开/复制按钮不出现，43 条档案全部可读。
+- 正常动画与 `prefers-reduced-motion` 均无持续帧变化；10 张默认展墙图片全部完成解码。
+- 验收脚本会独立拒绝 artifact 后插文件或 symlink；项目图片 allowlist 固定为 `project-01.webp` 至 `project-43.webp`，不接受任意 43 个 WebP；所有 `target="_blank"` 逐链接验证 `noopener noreferrer`，并用恶意 registry payload 回归 HTML/JSON-LD escaping。
[1 lines of base64/hex data omitted]
 
 ## 隐私与内容边界
